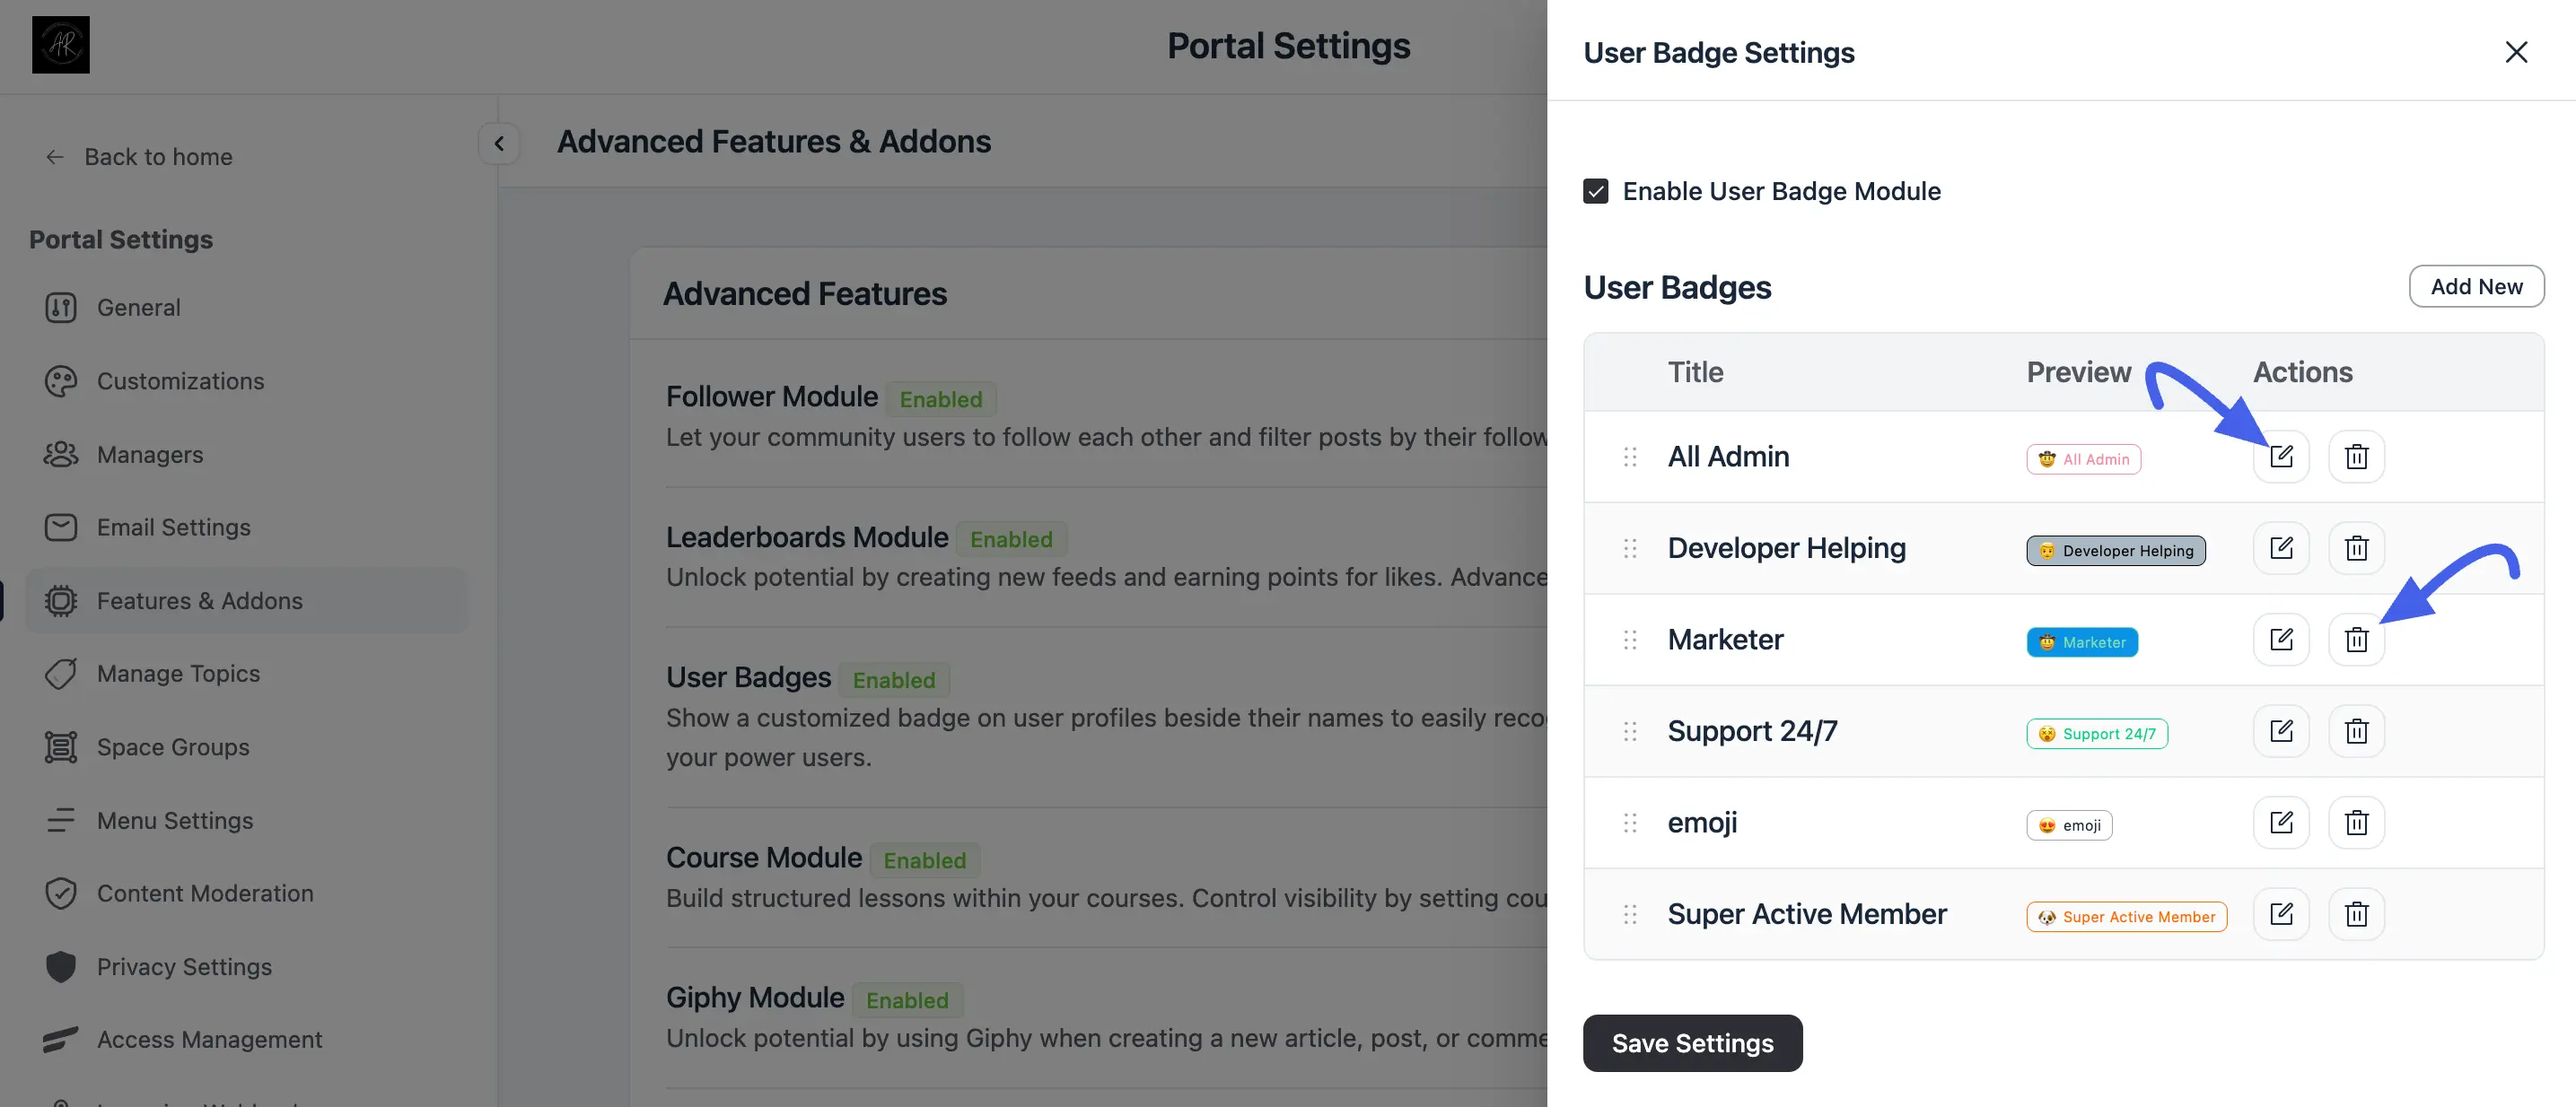
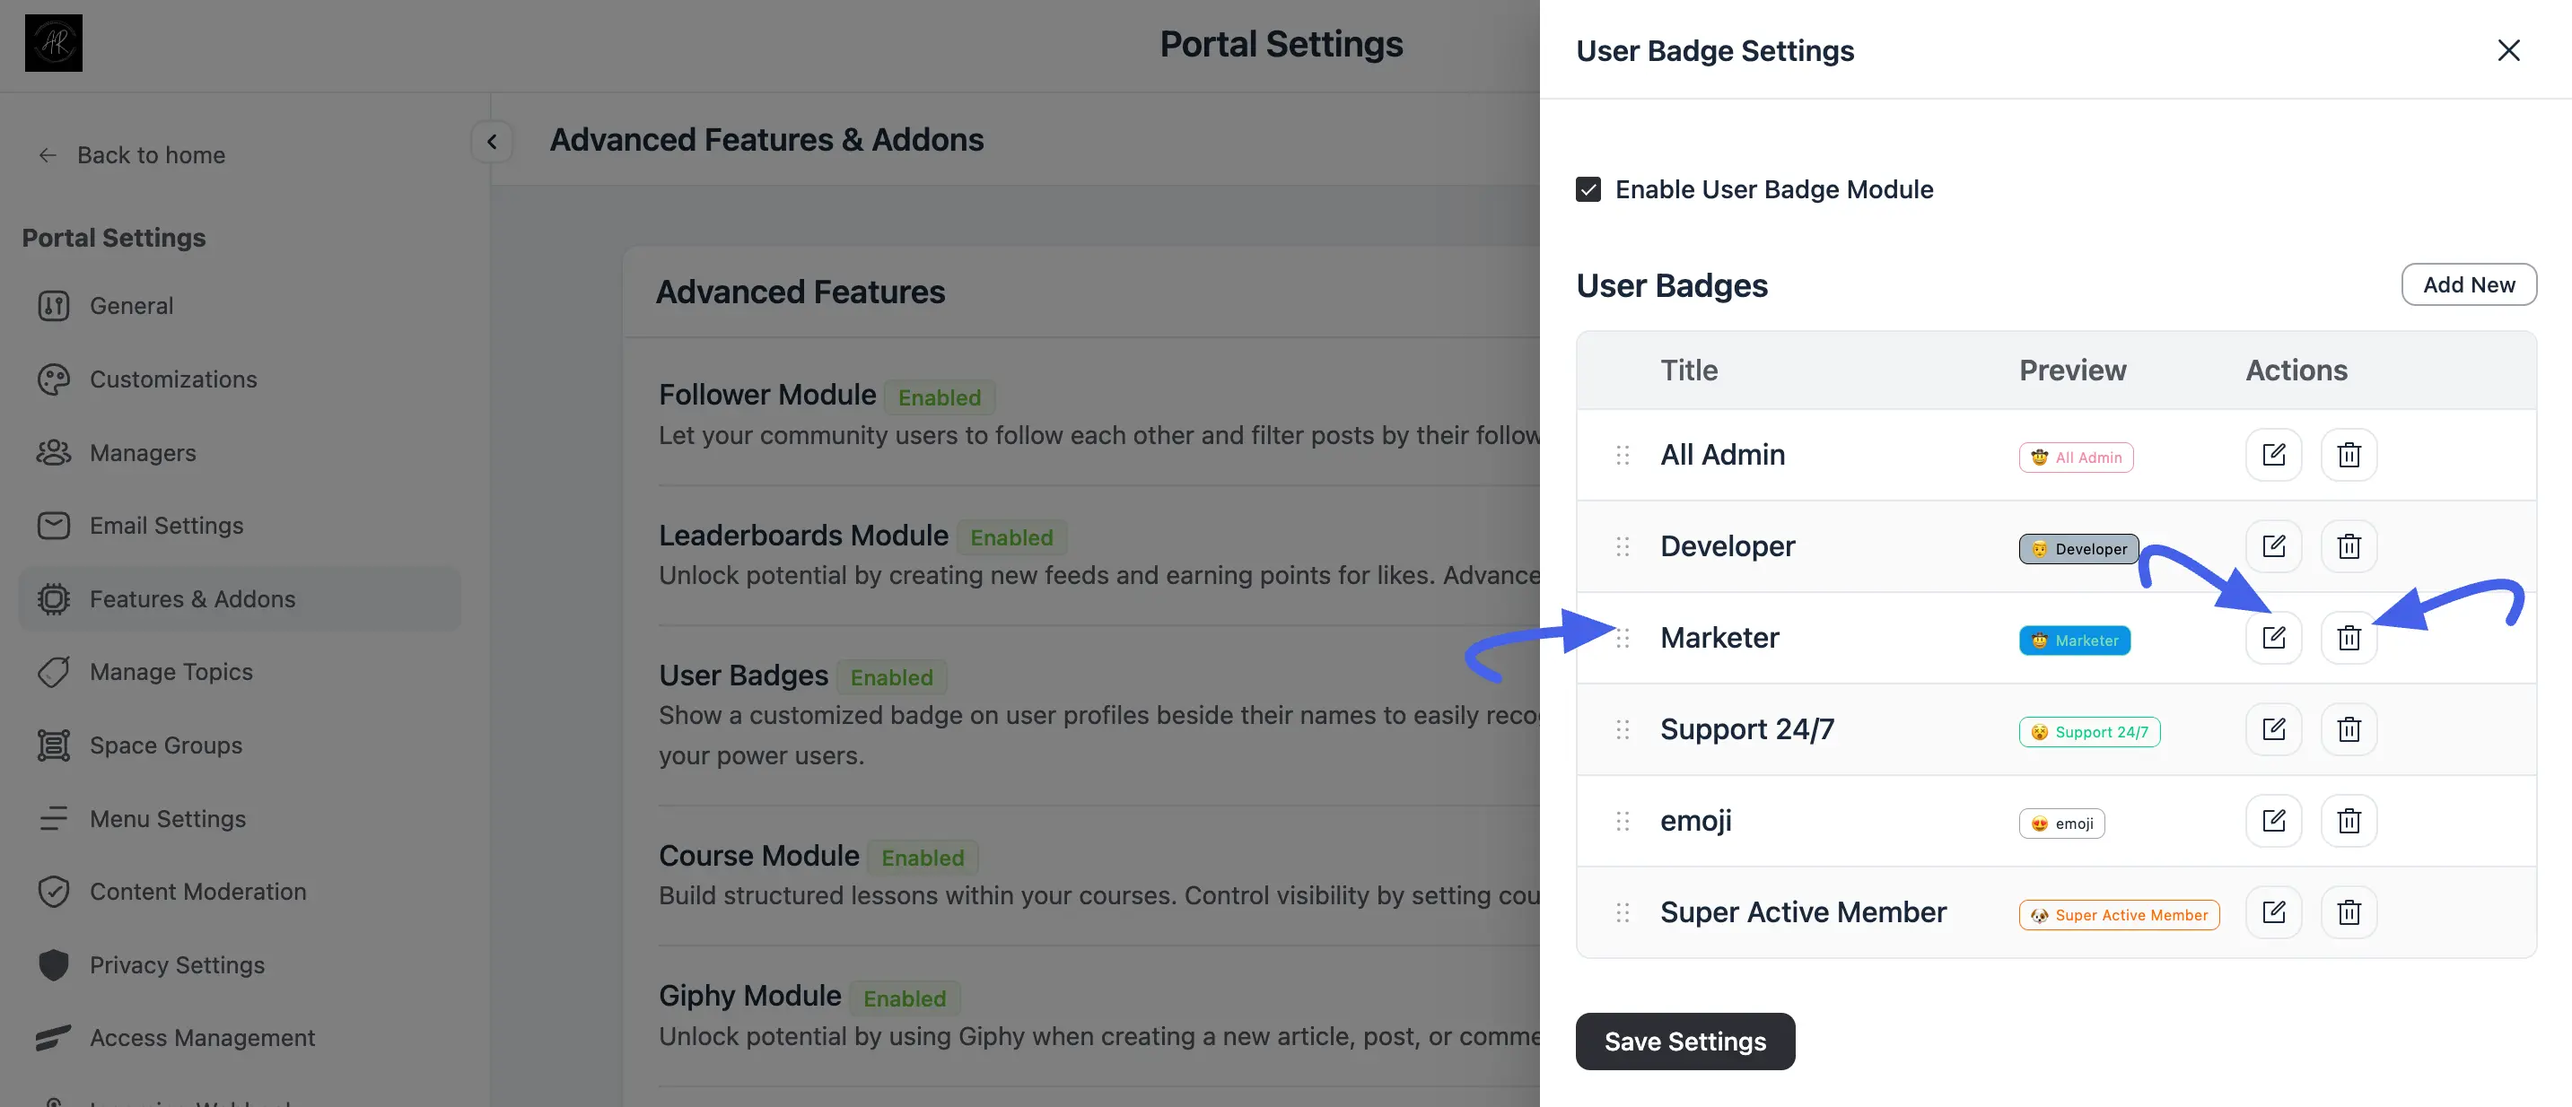
update creating and managing badge

diff --git a/docs/gamification-(pro)/creating-&-assigning-badges.md b/docs/gamification-(pro)/creating-&-assigning-badges.md
@@ -45,14 +45,15 @@ Leave these color parameters empty if you prefer the badge to automatically inhe
 
 ![Custom Badge](/images/gamification/creating-assign-badges/emoji-3.webp)
 
-## Update or Delete Active Badges
+## Update, Reorder, or Delete Active Badges
 
 Manage your existing badge catalog directly from your master inventory table:
 
+* **Reorder Badges:** Click and drag the handle (`⠿`) on the left of any row to change its position in the list. Badge order here is display order, it controls the sequence badges appear in wherever a member has more than one.
 * **Edit Existing Badges:** Click the **Edit (Pencil)** icon next to any active badge row to open its custom styling options, update color hexes, or rename titles.
 * **Remove Badges:** Click the **Delete (Trash Can)** icon next to any active badge row to permanently strip that reward option from the system directory.
 
-![Update or Delete Badge](/images/gamification/creating-assign-badges/delete-4.webp)
+![The User Badges table with a drag handle, title, preview, and Edit and Delete](/images/gamification/creating-assign-badges/delete-4.webp)
 
 ## Assigning Badges to Members
 
@@ -65,7 +66,6 @@ Currently, badges are assigned manually by administrators through the member man
 5. Select the desired badge from your created list.
 6. Click **Save Changes** at the bottom of the page.
 
-> [!Tip]
-> Assigned badges are updated in real-time. Once saved, the badge will immediately appear on the member's profile card, highlighting their status to the rest of the community.
+> **💡 Tip:** Assigned badges are updated in real-time. Once saved, the badge will immediately appear on the member's profile card, highlighting their status to the rest of the community.
 
 ![Add Profile Badge](/images/gamification/creating-assign-badges/profile-badge-5.webp)
